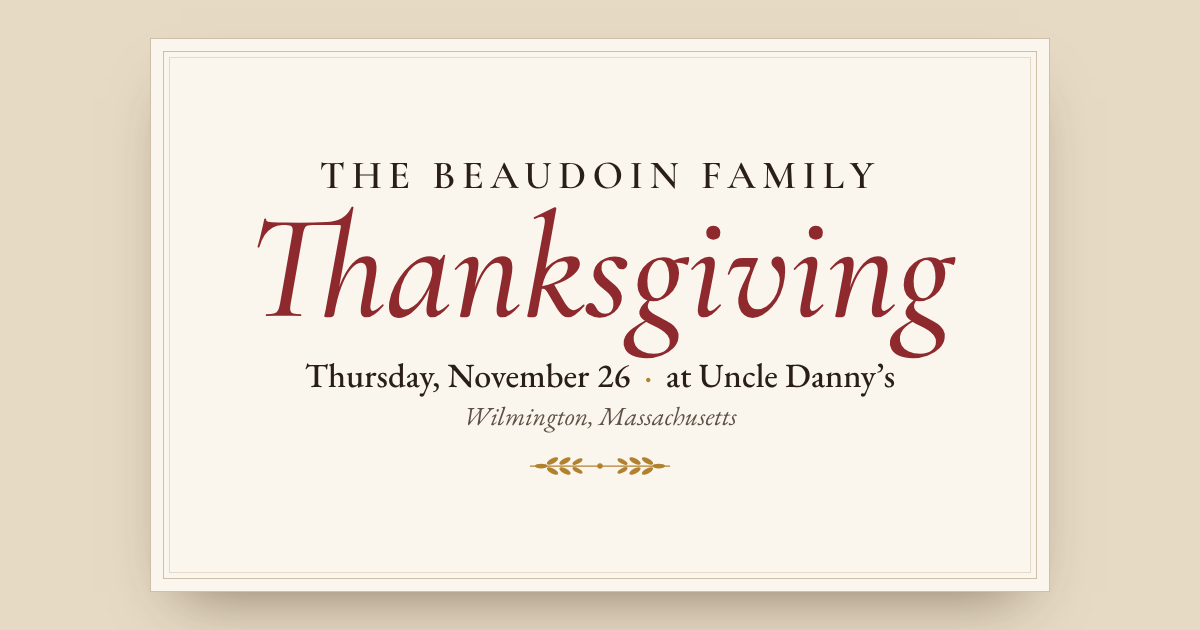
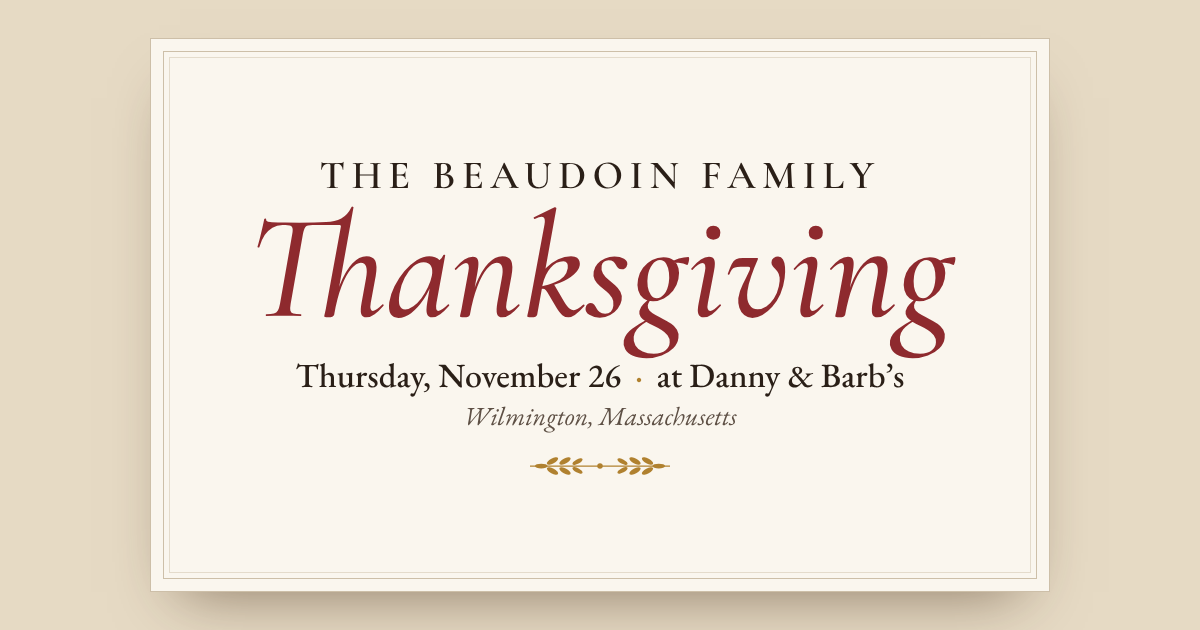
Hosts are Danny & Barb everywhere; header line stacks on narrow phones
Claude-Session: https://claude.ai/code/session_01P6STWgUqoMKqdwMmQGt94B

Changed region(s): [[0.2467, 0.573, 0.5242, 0.6333], [0.555, 0.573, 0.7708, 0.6333]]

diff --git a/index.html b/index.html
@@ -4,25 +4,25 @@
 <meta charset="utf-8">
 <meta name="viewport" content="width=device-width, initial-scale=1, viewport-fit=cover">
 <title>Beaudoin Family Thanksgiving</title>
-<meta name="description" content="Thanksgiving at Uncle Danny's. Claim a dish, RSVP your crew, and see what everyone's bringing.">
+<meta name="description" content="Thanksgiving at Danny &amp; Barb's. Claim a dish, RSVP your crew, and see what everyone's bringing.">
 <meta name="theme-color" content="#f4ede0">
 <meta name="color-scheme" content="light">
 <meta property="og:type" content="website">
 <meta property="og:site_name" content="Beaudoin Thanksgiving">
 <meta property="og:title" content="Beaudoin Family Thanksgiving · Thursday 11/26">
-<meta property="og:description" content="At Uncle Danny's in Wilmington. Claim a dish, RSVP your crew, and see what everyone's bringing.">
+<meta property="og:description" content="At Danny &amp; Barb's in Wilmington. Claim a dish, RSVP your crew, and see what everyone's bringing.">
 <meta property="og:url" content="https://jacobforcier.github.io/Beaudoin-Thanksgiving/">
 <meta property="og:image" content="https://jacobforcier.github.io/Beaudoin-Thanksgiving/og.png">
 <meta property="og:image:width" content="1200">
 <meta property="og:image:height" content="630">
-<meta property="og:image:alt" content="Beaudoin Family Thanksgiving: Thursday 11/26 at Uncle Danny's, Wilmington MA">
+<meta property="og:image:alt" content="Beaudoin Family Thanksgiving: Thursday 11/26 at Danny &amp; Barb's, Wilmington MA">
 <meta name="twitter:card" content="summary_large_image">
 <link rel="apple-touch-icon" href="apple-touch-icon.png">
 <link rel="icon" href="apple-touch-icon.png" type="image/png">
 <link rel="preconnect" href="https://fonts.googleapis.com">
 <link rel="preconnect" href="https://fonts.gstatic.com" crossorigin>
 <link href="https://fonts.googleapis.com/css2?family=Cormorant+Garamond:ital,wght@0,500;0,600;1,500;1,600&family=EB+Garamond:ital,wght@0,400;0,500;0,600;1,400;1,500&family=Homemade+Apple&display=swap" rel="stylesheet">
-<link rel="stylesheet" href="styles.css?v=10">
+<link rel="stylesheet" href="styles.css?v=11">
 </head>
 <body>
 <svg width="0" height="0" style="position:absolute" aria-hidden="true">
@@ -46,7 +46,7 @@
   <div class="invite">
     <p class="eyebrow">The Beaudoin Family</p>
     <h1 id="title">Thanksgiving</h1>
-    <p class="when">Thursday, November 26 <span class="sep">·</span> at Uncle Danny’s</p>
+    <p class="when"><span class="nw">Thursday, November 26</span> <span class="sep">·</span> <span class="nw">at Danny &amp; Barb’s</span></p>
     <p class="where">11 Chestnut Street, Wilmington</p>
     <p class="links"><button type="button" id="calBtn" class="link">Add to calendar</button><span class="sep">·</span><a id="directions" class="link" target="_blank" rel="noopener">Directions</a></p>
     <p class="countdown" id="countdown"></p>
@@ -74,7 +74,7 @@
     <header class="sec-head">
       <svg class="orn" aria-hidden="true"><use href="#wheat"/></svg>
       <h2>Who’s Coming</h2>
-      <p class="sub">Add your crew so Uncle Danny knows how many plates to set.</p>
+      <p class="sub">Add your crew so Danny &amp; Barb know how many plates to set.</p>
     </header>
     <p class="total" id="rsvpTotal"></p>
     <ul id="rsvpList" class="ledger"></ul>
@@ -130,6 +130,6 @@
 <div id="toast" class="toast" role="status" aria-live="polite"></div>
 <div id="fullhouse" class="fullhouse" role="status"><b>The table is set.</b><span>Every side and dessert is covered. Merci, everyone.</span></div>
 
-<script src="app.js?v=10"></script>
+<script src="app.js?v=11"></script>
 </body>
 </html>

diff --git a/app.js b/app.js
@@ -121,8 +121,8 @@ $('meter').addEventListener('click', (e) => {
 function renderMenu() {
   if (!dishes.length) return;
   const host = dishes.filter((d) => d.category === 'host');
-  let html = `<section class="course"><div class="course-head"><h3>From Uncle Danny’s Kitchen</h3></div><ul class="dishes">${host.map((d) =>
-    `<li><div class="dish-row host"><span class="nm"><b>${esc(pretty(d.name))}</b>${d.hint ? `<small>${esc(d.hint)}</small>` : ''}</span><span class="lead"></span><span class="st"><span class="who">Uncle Danny</span></span></div></li>`).join('')}</ul></section>`;
+  let html = `<section class="course"><div class="course-head"><h3>From Danny &amp; Barb’s Kitchen</h3></div><ul class="dishes">${host.map((d) =>
+    `<li><div class="dish-row host"><span class="nm"><b>${esc(pretty(d.name))}</b>${d.hint ? `<small>${esc(d.hint)}</small>` : ''}</span><span class="lead"></span><span class="st"><span class="who">Danny &amp; Barb</span></span></div></li>`).join('')}</ul></section>`;
   html += COURSES.map(([id, name, kick]) => {
     const list = dishes.filter((d) => d.category === id);
     return `<section class="course"><div class="course-head"><h3>${name}</h3></div><p class="course-sub">${esc(kick)}</p>
@@ -337,12 +337,12 @@ const GCAL = 'https://calendar.google.com/calendar/render?action=TEMPLATE'
   + '&text=' + encodeURIComponent('Beaudoin Family Thanksgiving')
   + '&dates=20261126/20261127'
   + '&location=' + encodeURIComponent(ADDRESS)
-  + '&details=' + encodeURIComponent('Thanksgiving at Uncle Danny’s. Times coming soon.\nSign-ups: ' + location.origin + location.pathname);
+  + '&details=' + encodeURIComponent('Thanksgiving at Danny & Barb’s. Times coming soon.\nSign-ups: ' + location.origin + location.pathname);
 $('calBtn').addEventListener('click', () => {
   const apple = `<a class="btn ${isApple ? '' : 'ghost'}" href="thanksgiving.ics">Apple or Outlook calendar</a>`;
   const google = `<a class="btn ${isApple ? 'ghost' : ''}" href="${GCAL}" target="_blank" rel="noopener">Google Calendar</a>`;
   openDialog('Add to your calendar',
-    `<p class="dlg-note">Thursday, November 26 at Uncle Danny’s. It’s an all-day event until the times are set.</p>
+    `<p class="dlg-note">Thursday, November 26 at Danny & Barb’s. It’s an all-day event until the times are set.</p>
      <div class="cal-opts">${isApple ? apple + google : google + apple}</div>`,
     [{ label: 'Close', value: null, cls: 'ghost' }]);
   $('dlgBody').querySelectorAll('a').forEach((a) => a.addEventListener('click', () => setTimeout(() => dlg.close(), 300)));

diff --git a/styles.css b/styles.css
@@ -1,4 +1,4 @@
-/* A printed menu card on Uncle Danny's table: cream paper, brown-black ink, one cranberry accent. */
+/* A printed menu card on Danny & Barb's table: cream paper, brown-black ink, one cranberry accent. */
 :root {
   --paper: #f4ede0;
   --paper-2: #ebe1cf;
@@ -45,6 +45,8 @@ button, input, textarea { font: inherit; color: inherit; }
 .eyebrow::after { content: ''; display: block; width: 56px; height: 1px; margin: 12px auto 6px; background: var(--ochre); }
 h1 { margin: -4px 0 4px; font: italic 500 clamp(3.4rem, 15vw, 5.6rem)/1 var(--display); color: var(--cran); letter-spacing: -.01em; }
 .when { margin: 0; font-size: 1.12rem; }
+.when .nw { white-space: nowrap; }
+@media (max-width: 430px) { .when .sep { display: none; } .when .nw { display: block; } }
 .where { margin: 0; color: var(--ink-2); font-style: italic; }
 .links { margin: 14px 0 0; }
 .link { border: 0; background: none; padding: 0; cursor: pointer; color: var(--cran); font-size: .95rem; text-decoration: underline; text-decoration-color: rgba(142,42,46,.35); text-underline-offset: 3px; }

diff --git a/README.md b/README.md
@@ -1,8 +1,8 @@
 # 🦃 Beaudoin Family Thanksgiving
 
-Sign-up site for Thanksgiving: Thursday 11/26 at Uncle Danny's, 11 Chestnut Street, Wilmington, MA.
+Sign-up site for Thanksgiving: Thursday 11/26 at Danny & Barb's, 11 Chestnut Street, Wilmington, MA.
 
-- Uncle Danny covers the turkey and Mémère's tourtière
+- Danny & Barb cover the turkey and Mémère's tourtière
 - Suggested dishes (just suggestions); anyone can sign up for a dish, double up, or add their own
 - RSVP with adult/kid counts (running total, no target)
 - "Thankful For" quotes
